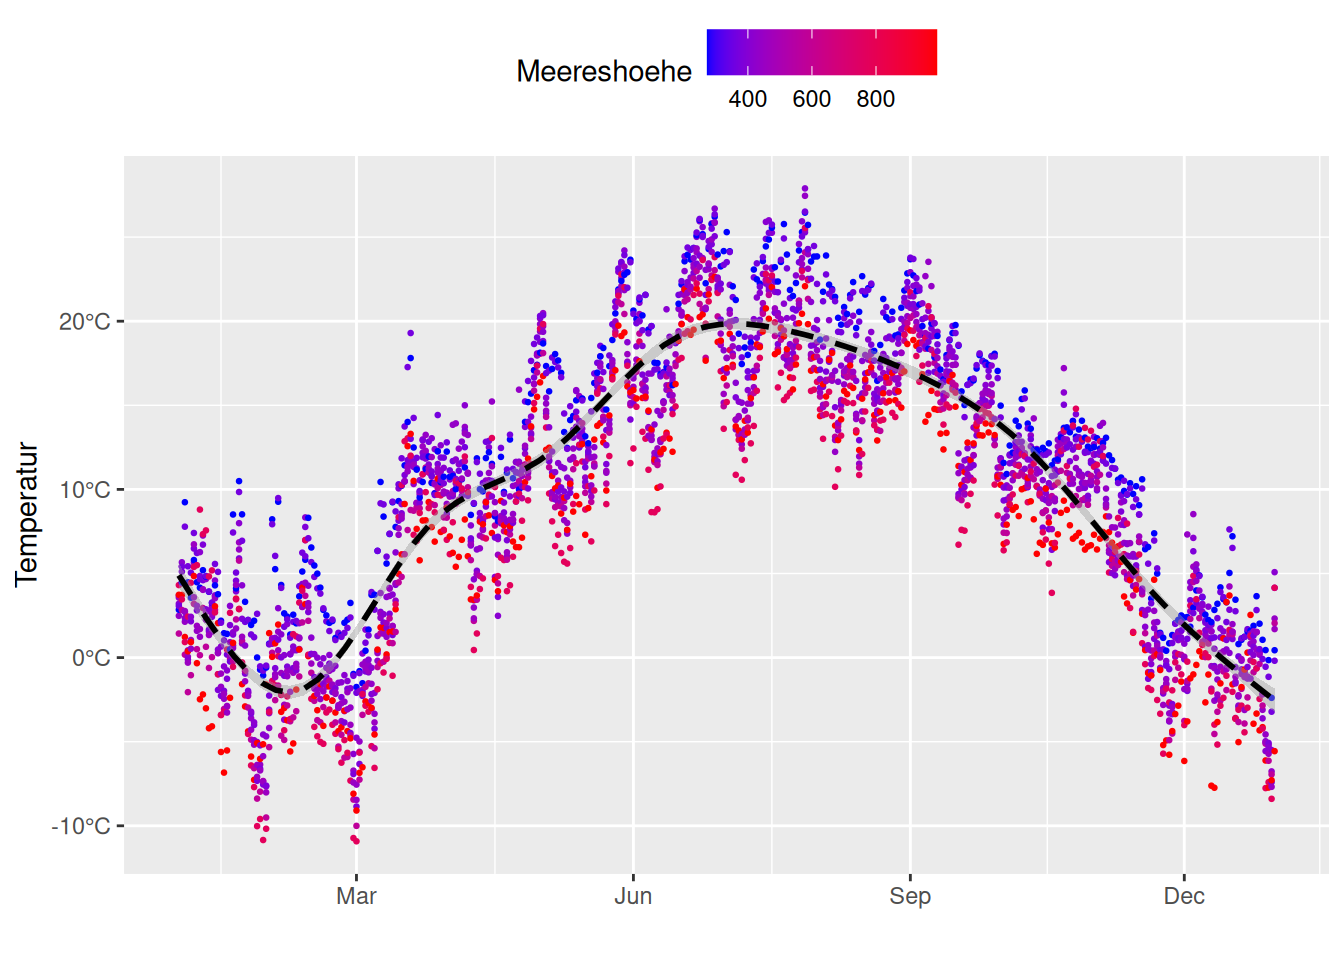
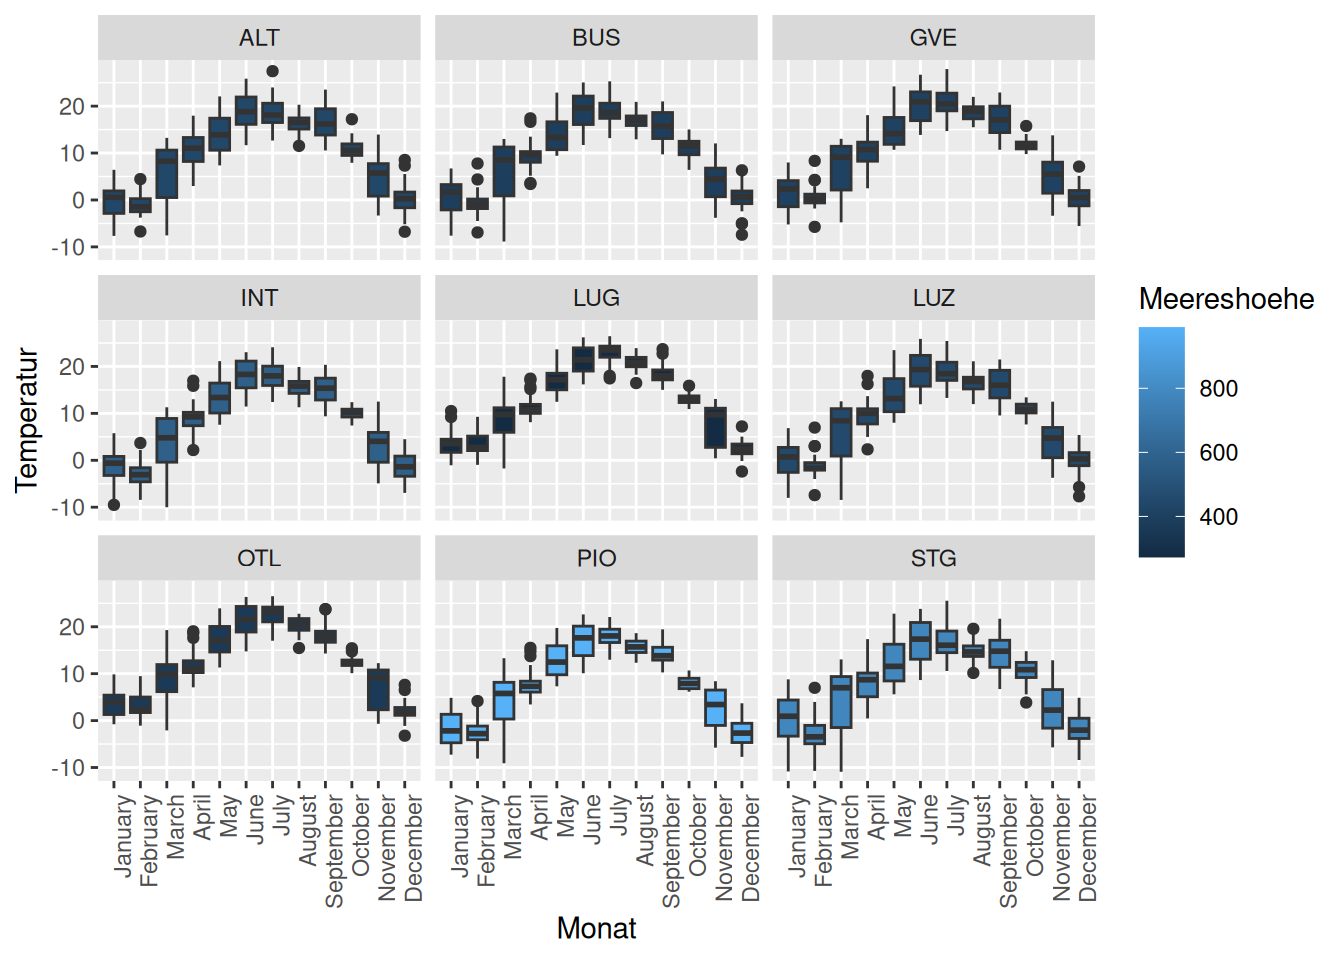
Built site for gh-pages

diff --git a/infovis/Infovis2_Uebung_B.html b/infovis/Infovis2_Uebung_B.html
@@ -468,14 +468,11 @@ pre > code.sourceCode > span > a:first-child::before { text-decoration: underlin
    
   <ul>
   <li><a href="#aufgabe-1" id="toc-aufgabe-1" class="nav-link active" data-scroll-target="#aufgabe-1">Aufgabe 1</a></li>
-  <li><a href="#aufgabe-2" id="toc-aufgabe-2" class="nav-link" data-scroll-target="#aufgabe-2">Aufgabe 2</a></li>
-  <li><a href="#aufgabe-3" id="toc-aufgabe-3" class="nav-link" data-scroll-target="#aufgabe-3">Aufgabe 3</a></li>
+  <li><a href="#sec-infovis2-scatterplot" id="toc-sec-infovis2-scatterplot" class="nav-link" data-scroll-target="#sec-infovis2-scatterplot">Aufgabe 2</a></li>
+  <li><a href="#sec-infovis2-aggregate" id="toc-sec-infovis2-aggregate" class="nav-link" data-scroll-target="#sec-infovis2-aggregate">Aufgabe 3</a></li>
   <li><a href="#aufgabe-4" id="toc-aufgabe-4" class="nav-link" data-scroll-target="#aufgabe-4">Aufgabe 4</a></li>
   <li><a href="#aufgabe-5" id="toc-aufgabe-5" class="nav-link" data-scroll-target="#aufgabe-5">Aufgabe 5</a></li>
   <li><a href="#aufgabe-6" id="toc-aufgabe-6" class="nav-link" data-scroll-target="#aufgabe-6">Aufgabe 6</a></li>
-  <li><a href="#aufgabe-7-optional-fortgeschritten" id="toc-aufgabe-7-optional-fortgeschritten" class="nav-link" data-scroll-target="#aufgabe-7-optional-fortgeschritten">Aufgabe 7 (optional, fortgeschritten)</a></li>
-  <li><a href="#aufgabe-8" id="toc-aufgabe-8" class="nav-link" data-scroll-target="#aufgabe-8">Aufgabe 8</a></li>
-  <li><a href="#aufgabe-9" id="toc-aufgabe-9" class="nav-link" data-scroll-target="#aufgabe-9">Aufgabe 9</a></li>
   </ul>
 </nav>
     </div>
@@ -557,8 +554,8 @@ pre > code.sourceCode > span > a:first-child::before { text-decoration: underlin
 </div>
 <p>Importiere anschliessend den Datensatz <em>temperature_2005_metadata.csv</em> und verbinde die beiden Datensätze mit einem <code>left_join</code> via <code>station</code> (bzw. <code>stn</code>).</p>
 </section>
-<section id="aufgabe-2" class="level2">
-<h2 class="anchored" data-anchor-id="aufgabe-2">Aufgabe 2</h2>
+<section id="sec-infovis2-scatterplot" class="level2">
+<h2 class="anchored" data-anchor-id="sec-infovis2-scatterplot">Aufgabe 2</h2>
 <p>Erstelle ein Scatterplot (<code>time</code> vs.&nbsp;<code>temperature</code>), wobei die Punkte aufgrund ihrer Meereshöhe eingefärbt werden sollen. Tiefe Werte sollen dabei blau eingefärbt werden und hohe Werte rot (<code>scale_color_gradient</code>). Verkleinere die Punkte, um übermässiges Überplotten der Punkte zu vermeiden (<code>size =</code>). Weiter sollen auf der x-Achse im Abstand von 3 Monaten der jeweilige Monat vermerkt sein (<code>date_breaks</code> bzw. <code>date_labels</code> von <code>scale_x_datetime()</code>).</p>
 <div class="cell">
 <div class="cell-output-display">
@@ -570,14 +567,14 @@ pre > code.sourceCode > span > a:first-child::before { text-decoration: underlin
 </div>
 </div>
 </section>
-<section id="aufgabe-3" class="level2">
-<h2 class="anchored" data-anchor-id="aufgabe-3">Aufgabe 3</h2>
+<section id="sec-infovis2-aggregate" class="level2">
+<h2 class="anchored" data-anchor-id="sec-infovis2-aggregate">Aufgabe 3</h2>
 <p>Erstelle eine Zusatzvariable <code>Date</code> mit dem Datum der jeweiligen Messung ( mit <code>as.Date</code>). Nutze diese Spalte, um die Tagesmitteltemperatur pro Station zu berechnen (mit <code>summarise()</code>).</p>
-<p>Um die Metadaten (<code>Name</code>, <code>Meereshoehe</code>, <code>x</code>, <code>y</code>) nicht zu verlieren, kannst du den Join aus der ersten Übung wieder ausführen. Alternativ (schneller aber auch schwerer zu verstehen) kannst du diese Variablen innerhalb deines <code>group_by</code> verwenden.</p>
+<p>Um die Metadaten (<code>Name</code>, <code>Meereshoehe</code>, <code>x</code>, <code>y</code>) nicht zu verlieren, kannst du den Join aus der ersten Übung wieder ausführen. Alternativ (schneller aber weniger intuitiv) kannst du diese Variablen innerhalb deines <code>group_by</code> verwenden.</p>
 </section>
 <section id="aufgabe-4" class="level2">
 <h2 class="anchored" data-anchor-id="aufgabe-4">Aufgabe 4</h2>
-<p>Wiederhole nun den Plot aus der zweiten Aufgabe mit den aggregierten Daten aus der vorherigen Aufgabe. Um die labels korrekt zu setzen, musst du <code>scale_x_datetime</code> mit <code>scale_x_date</code> ersetzen.</p>
+<p>Wiederhole nun den Plot aus <a href="#sec-infovis2-scatterplot" class="quarto-xref"><span>Aufgabe 2</span></a> mit den aggregierten Daten aus <a href="#sec-infovis2-aggregate" class="quarto-xref"><span>Aufgabe 3</span></a>. Um die labels korrekt zu setzen, musst du <code>scale_x_datetime</code> mit <code>scale_x_date</code> ersetzen.</p>
 <div class="cell">
 <div class="cell-output-display">
 <div>
@@ -613,53 +610,39 @@ pre > code.sourceCode > span > a:first-child::before { text-decoration: underlin
 </div>
 </div>
 </div>
-</section>
-<section id="aufgabe-7-optional-fortgeschritten" class="level2">
-<h2 class="anchored" data-anchor-id="aufgabe-7-optional-fortgeschritten">Aufgabe 7 (optional, fortgeschritten)</h2>
-<p>Füge den Temperaturwerten auf der y-Achse ein <code>°C</code> hinzu (siehe unten und studiere <a href="https://stackoverflow.com/a/35967126/4139249">diesen Tipp</a> zur Hilfe).</p>
-<div class="cell">
-<div class="cell-output-display">
-<div>
-<figure class="figure">
-<p><img src="Infovis2_Uebung_B_files/figure-html/unnamed-chunk-9-1.png" class="img-fluid figure-img" width="672"></p>
-</figure>
-</div>
-</div>
-</div>
-</section>
-<section id="aufgabe-8" class="level2">
-<h2 class="anchored" data-anchor-id="aufgabe-8">Aufgabe 8</h2>
-<p>Jetzt verlassen wir den Scatterplot und machen einen Boxplot mit den Temperaturdaten. Färbe die Boxplots wieder in Abhängigkeit der Meereshöhe ein.</p>
-<ul>
-<li>Beachte den Unterschied zwischen <code>colour =</code> und <code>fill =</code></li>
-<li>Beachte den Unterschied zwischen <code>facet_wrap()</code> und <code>facet_grid()</code></li>
-<li><code>facet_grid()</code> braucht übrigens noch einen Punkt (<code>.</code>) zur Tilde (<code>~</code>).</li>
-<li>Beachte den Unterschied zwischen “<code>.~</code>” und “<code>~.</code>” bei <code>facet_grid()</code></li>
-<li>verschiebe nach Bedarf die Legende</li>
-</ul>
-<div class="cell">
-<div class="cell-output-display">
-<div>
-<figure class="figure">
-<p><img src="Infovis2_Uebung_B_files/figure-html/unnamed-chunk-10-1.png" class="img-fluid figure-img" width="672"></p>
-</figure>
-</div>
-</div>
-</div>
-</section>
-<section id="aufgabe-9" class="level2">
-<h2 class="anchored" data-anchor-id="aufgabe-9">Aufgabe 9</h2>
-<p>Als letzter wichtiger Plottyp noch zwei Übungen zum Histogramm. Erstelle ein Histogramm <code>geom_histogram()</code> mit den Temperaturwerten. Teile dazu die Stationen in verschiedene Höhenlagen ein (Tieflage [&lt; 400 m], Mittellage [400 - 600 m] und Hochlage [&gt; 600 m]). Vergleiche die Verteilung der Temperaturwerte in den verschiedenen Lagen mit einem Histogramm.</p>
-<p>Tipp: Nutze <code>cut</code> um die Stationen in die drei Gruppen aufzuteilen</p>
-<div class="cell">
-<div class="cell-output-display">
-<div>
-<figure class="figure">
-<p><img src="Infovis2_Uebung_B_files/figure-html/unnamed-chunk-11-1.png" class="img-fluid figure-img" width="672"></p>
-</figure>
-</div>
-</div>
-</div>
+<!--
+## Aufgabe 7
+
+Jetzt verlassen wir den Scatterplot und machen einen Boxplot mit den Temperaturdaten. Färbe die Boxplots wieder in Abhängigkeit der Meereshöhe ein. 
+
+- Beachte den Unterschied zwischen `colour =` und `fill =`
+- Beachte den Unterschied zwischen `facet_wrap()` und `facet_grid()`
+- `facet_grid()` braucht übrigens noch einen Punkt (`.`) zur Tilde (`~`). 
+- Beachte den Unterschied zwischen "`.~`" und "`~.`" bei `facet_grid()`
+- verschiebe nach Bedarf die Legende
+
+
+::: {.cell}
+::: {.cell-output-display}
+![](Infovis2_Uebung_B_files/figure-html/unnamed-chunk-9-1.png){width=672}
+:::
+:::
+
+
+## Aufgabe 8
+
+Als letzter wichtiger Plottyp noch zwei Übungen zum Histogramm. Erstelle ein Histogramm `geom_histogram()` mit den Temperaturwerten. Teile dazu die  Stationen in verschiedene Höhenlagen ein (Tieflage [< 400 m], Mittellage [400 - 600 m] und Hochlage [> 600 m]). Vergleiche die Verteilung der Temperaturwerte in den verschiedenen Lagen mit einem Histogramm. 
+
+Tipp: Nutze `cut` um die Stationen in die drei Gruppen aufzuteilen
+
+
+::: {.cell}
+::: {.cell-output-display}
+![](Infovis2_Uebung_B_files/figure-html/unnamed-chunk-10-1.png){width=672}
+:::
+:::
+
+-->
 
 
 </section>

diff --git a/infovis/Infovis2_Uebung_A.html b/infovis/Infovis2_Uebung_A.html
@@ -495,7 +495,7 @@ div.csl-indent {
   <li><a href="#aufgabe-6" id="toc-aufgabe-6" class="nav-link" data-scroll-target="#aufgabe-6">Aufgabe 6</a></li>
   <li><a href="#aufgabe-7-optional" id="toc-aufgabe-7-optional" class="nav-link" data-scroll-target="#aufgabe-7-optional">Aufgabe 7 (Optional)</a></li>
   <li><a href="#aufgabe-8" id="toc-aufgabe-8" class="nav-link" data-scroll-target="#aufgabe-8">Aufgabe 8</a></li>
-  <li><a href="#abgabe" id="toc-abgabe" class="nav-link" data-scroll-target="#abgabe">Abgabe</a></li>
+  <li><a href="#abgabe" id="toc-abgabe" class="nav-link" data-scroll-target="#abgabe">⚠ Abgabe</a></li>
   </ul>
 </nav>
     </div>
@@ -627,7 +627,13 @@ Hinweis
 <section id="aufgabe-6" class="level2">
 <h2 class="anchored" data-anchor-id="aufgabe-6">Aufgabe 6</h2>
 <p>Nun formatieren wir den Fliesstext mit etwas Markdown Syntax. Stelle zu diesem Zweck jeder Überschrift (<em>Kantonsebene</em>, <em>Gemeindeebene</em> etc.) zwei <code>#</code> Zeichen voran. Also so:</p>
-<div class="code-copy-outer-scaffold"><div class="sourceCode" id="cb3"><pre class="sourceCode markdown code-with-copy"><code class="sourceCode markdown"><span id="cb3-1"><a href="#cb3-1" aria-hidden="true" tabindex="-1"></a><span class="fu">## Kantonsebene</span></span></code></pre></div><button title="In die Zwischenablage kopieren" class="code-copy-button"><i class="bi"></i></button></div>
+<div class="code-copy-outer-scaffold"><div class="sourceCode" id="cb3"><pre class="sourceCode markdown code-with-copy"><code class="sourceCode markdown"><span id="cb3-1"><a href="#cb3-1" aria-hidden="true" tabindex="-1"></a><span class="fu">## Kantonsebene</span></span>
+<span id="cb3-2"><a href="#cb3-2" aria-hidden="true" tabindex="-1"></a></span>
+<span id="cb3-3"><a href="#cb3-3" aria-hidden="true" tabindex="-1"></a>...text</span>
+<span id="cb3-4"><a href="#cb3-4" aria-hidden="true" tabindex="-1"></a></span>
+<span id="cb3-5"><a href="#cb3-5" aria-hidden="true" tabindex="-1"></a><span class="fu">## Gemeindeebene</span></span>
+<span id="cb3-6"><a href="#cb3-6" aria-hidden="true" tabindex="-1"></a></span>
+<span id="cb3-7"><a href="#cb3-7" aria-hidden="true" tabindex="-1"></a>... text</span></code></pre></div><button title="In die Zwischenablage kopieren" class="code-copy-button"><i class="bi"></i></button></div>
 </section>
 <section id="aufgabe-7-optional" class="level2">
 <h2 class="anchored" data-anchor-id="aufgabe-7-optional">Aufgabe 7 (Optional)</h2>
@@ -640,8 +646,20 @@ Hinweis
 <p>Rendere das Dokument erneut und schau dir den Output an.</p>
 </section>
 <section id="abgabe" class="level2">
-<h2 class="anchored" data-anchor-id="abgabe">Abgabe</h2>
-<p>Zippe nun deinen Ordner mit dem RStudio-Projekt, dem Quarto-File und dem PDF-Output und gib es auf Moodle ab.</p>
+<h2 class="anchored" data-anchor-id="abgabe">⚠ Abgabe</h2>
+<div class="callout callout-style-default callout-important callout-titled">
+<div class="callout-header d-flex align-content-center">
+<div class="callout-icon-container">
+<i class="callout-icon"></i>
+</div>
+<div class="callout-title-container flex-fill">
+Wichtig
+</div>
+</div>
+<div class="callout-body-container callout-body">
+<p>Zippe nun deinen Projektordner (mit dem Quarto-File und dem PDF-Output) und gib es auf Moodle ab.</p>
+</div>
+</div>
 
 
 <div id="refs" class="references csl-bib-body hanging-indent" data-entry-spacing="0" role="list" style="display: none">
